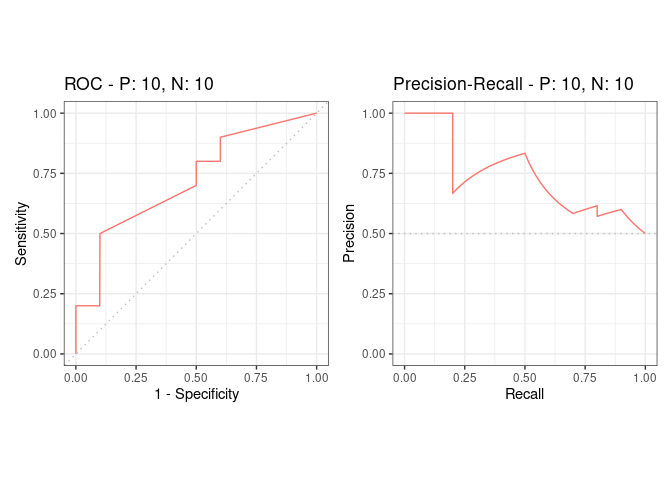
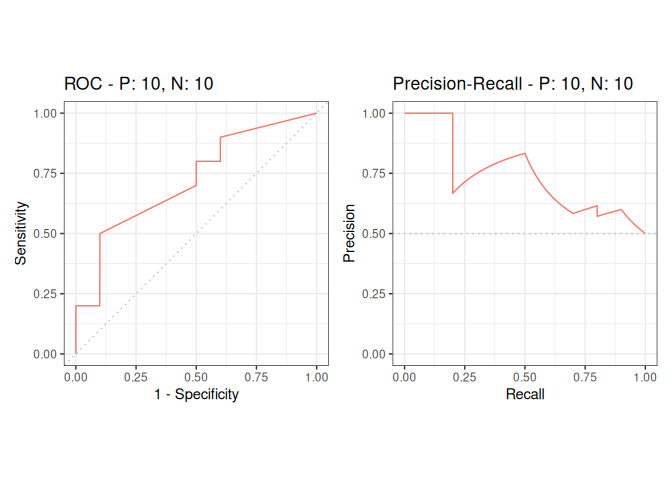
Bring the docs, the notes and the release files up to 0.16.0
README.md is regenerated from README.Rmd rather than hand-edited, which is
what the development note says to do and which I had not been doing through
phases 3 to 6 - the two had drifted in formatting, and the function table
still said "eight functions" for a package that now exports ten. The README
figure is re-rendered with it, and gained the alt text pkgdown was asking
for; the site now builds with no reported problems.

CLAUDE.md's public API line was four functions out of date. The architecture
note gains two sections for the things a reader now has to know before
touching this code:

- **The measure table.** `.basic_metric_table()` is the single list, with
  both naming schemes in it. Two bugs in two consecutive releases came from
  a lookup keyed on one scheme and missing the other - the 0.15.0 panel
  titles, and `.is_signed_metric()` drawing informedness and markedness on
  the wrong axis - so the note says to prefer the table over a fresh list of
  names.
- **The joinable-pair registry.** Why `metric_curve()` does not calculate a
  registered pair itself, and what adding a row means.

The development note gains the benchmark and ROCR-parity section, including
the two things that cost time this cycle: a `--compare` run is a screen and
not a verdict on a loaded machine, and the committed baseline has to be
regenerated whenever a change alters what the package computes. It also now
says that `lintr::lint_package()` wants the package installed first and
[…]

diff --git a/README.md b/README.md
@@ -65,13 +65,14 @@ evaluation measures.
 - F-score, and the F-beta score it generalizes
 - Balanced accuracy
 - Negative predictive value (NPV)
-- Informedness (Youden's J) and markedness
-- Cohen's kappa
+- Informedness (Youden’s J) and markedness
+- Cohen’s kappa
 - Brier score, RMSE and log loss, for scores that are probabilities
 - False positive rate, false negative rate, false discovery rate, false
-  omission rate, rate of positive predictions, rate of negative predictions,
-  lift, odds ratio, mutual information, chi-square, weighted
-  misclassification cost and SAR, on request through `evalmod(metrics = )`
+  omission rate, rate of positive predictions, rate of negative
+  predictions, lift, odds ratio, mutual information, chi-square,
+  weighted misclassification cost and SAR, on request through
+  `evalmod(metrics = )`
 - Precision-recall break-even point
 
 ### 4. Confidence interval band
@@ -89,9 +90,9 @@ ranges.
 ### 6. Multiclass evaluation
 
 `precrec` evaluates a dataset with more than two classes by one-vs-rest
-decomposition. Each class becomes its own binary problem, so the accurate
-precision-recall calculations apply to it unchanged, and `auc` reports the
-per-class scores together with their macro-average.
+decomposition. Each class becomes its own binary problem, so the
+accurate precision-recall calculations apply to it unchanged, and `auc`
+reports the per-class scores together with their macro-average.
 
 ### 7. Supporting functions
 
@@ -126,37 +127,38 @@ evaluation tools.
 
 ## Functions
 
-The `precrec` package provides the following eight functions.
+The `precrec` package provides the following ten functions.
 
-| Function | Description |
-|:---|:---|
-| evalmod | Main function to calculate evaluation measures |
-| mmdata | Reformat input data for performance evaluation calculation |
-| join_scores | Join scores of multiple models into a list |
-| join_labels | Join observed labels of multiple test datasets into a list |
-| create_sim_samples | Create random samples for simulations |
-| format_nfold | Create n-fold cross validation dataset from data frame |
-| prob_metrics | Calculate the Brier score, the RMSE and the log loss |
-| prob_metrics_ci | Calculate CIs of the Brier score, the RMSE and the log loss |
-| metric_curve | Draw one evaluation measure against another |
-| prbe | Find the precision-recall break-even point |
+| Function           | Description                                                 |
+|:-------------------|:------------------------------------------------------------|
+| evalmod            | Main function to calculate evaluation measures              |
+| mmdata             | Reformat input data for performance evaluation calculation  |
+| join_scores        | Join scores of multiple models into a list                  |
+| join_labels        | Join observed labels of multiple test datasets into a list  |
+| create_sim_samples | Create random samples for simulations                       |
+| format_nfold       | Create n-fold cross validation dataset from data frame      |
+| prob_metrics       | Calculate the Brier score, the RMSE and the log loss        |
+| prob_metrics_ci    | Calculate CIs of the Brier score, the RMSE and the log loss |
+| metric_curve       | Draw one evaluation measure against another                 |
+| prbe               | Find the precision-recall break-even point                  |
 
-Moreover, the `precrec` package provides nine S3 generics for the S3
-object created by the `evalmod` function. **N.B.** The R language
-specifies S3 objects and S3 generic functions as part of the most basic
-object-oriented system in R.
+Moreover, the `precrec` package provides ten S3 generics for the S3
+objects created by the `evalmod` and `metric_curve` functions. **N.B.**
+The R language specifies S3 objects and S3 generic functions as part of
+the most basic object-oriented system in R.
 
-| S3 generic | Package | Description |
-|:---|:---|:---|
-| print | base | Print the calculation results and the summary of the test data |
-| as.data.frame | base | Convert a precrec object to a data frame |
-| plot | graphics | Plot performance evaluation measures |
-| autoplot | ggplot2 | Plot performance evaluation measures with ggplot2 |
-| fortify | ggplot2 | Prepare a data frame for ggplot2 |
-| auc | precrec | Make a data frame with AUC scores |
-| part | precrec | Calculate partial curves and partial AUC scores |
-| pauc | precrec | Make a data frame with pAUC scores |
-| auc_ci | precrec | Calculate confidence intervals of AUC scores |
+| S3 generic    | Package    | Description                                                    |
+|:--------------|:-----------|:---------------------------------------------------------------|
+| print         | base       | Print the calculation results and the summary of the test data |
+| as.data.frame | base       | Convert a precrec object to a data frame                       |
+| plot          | graphics   | Plot performance evaluation measures                           |
+| autoplot      | ggplot2    | Plot performance evaluation measures with ggplot2              |
+| fortify       | ggplot2    | Prepare a data frame for ggplot2                               |
+| auc           | precrec    | Make a data frame with AUC scores                              |
+| part          | precrec    | Calculate partial curves and partial AUC scores                |
+| pauc          | precrec    | Make a data frame with pAUC scores                             |
+| auc_ci        | precrec    | Calculate confidence intervals of AUC scores                   |
+| as.data.table | data.table | Convert a precrec object to a data.table                       |
 
 ## Examples
 
@@ -190,7 +192,13 @@ library(ggplot2)
 autoplot(sscurves)
 ```
 
-![](https://raw.githubusercontent.com/evalclass/precrec/main/README_files/figure-gfm/unnamed-chunk-2-1.png)
+<figure>
+<img
+src="https://raw.githubusercontent.com/evalclass/precrec/main/README_files/figure-gfm/unnamed-chunk-2-1.png"
+alt="ROC and precision-recall curves of the P10N10 test dataset, drawn side by side" />
+<figcaption aria-hidden="true">ROC and precision-recall curves of the
+P10N10 test dataset, drawn side by side</figcaption>
+</figure>
 
 ## Citation
 

diff --git a/.claude/notes/architecture.md b/.claude/notes/architecture.md
@@ -4,8 +4,8 @@
 
 | Prefix | Role |
 | --- | --- |
-| `main_` | `evalmod()` — the single user-facing entry point |
-| `mm1`–`mm4` | **m**ake **m**odel data: input joining, validation, reformatting |
+| `main_` | `evalmod()` and `metric_curve()` — the user-facing entry points |
+| `mm1`–`mm5` | **m**ake **m**odel data: input joining, validation, reformatting, one-vs-rest expansion |
 | `pl1`–`pl6` | **p**ipe**l**ine stages that turn reformatted data into results |
 | `g_` | S3 **g**enerics and their methods (`plot`, `autoplot`, `auc`, …) |
 | `etc_utils*` | shared helpers: arg validation, object validation, plot/df utils |
@@ -48,12 +48,21 @@ pl_main(mdat, mode=)     pl1_pipeline_main.R
 
 `part()` (`g_part.R`) post-processes a `*curves` object in place, adding
 partial AUCs and `xlim`/`ylim` attributes and flipping `attr(x, "partial")`.
+`prbe()` (`g_prbe.R`) reads the precision-recall break-even point off the
+already-interpolated PR curve of such an object.
+
+`metric_curve()` (`main_metric_curve.R`) is a second entry point that
+projects two basic measures against each other. It does not add a pipeline
+stage: it calls `evalmod()` and takes two columns. See **The joinable-pair
+registry** below, which is the load-bearing part.
 
 ### Modes
 
 - `"rocprc"` (default, alias `"prcroc"`) — ROC + precision-recall curves.
-- `"basic"` — per-rank basic measures: score, label, error, accuracy,
-  specificity, sensitivity, precision, MCC, F-score (`.get_metric_names()`).
+- `"basic"` — per-rank basic measures. `.get_metric_names("basic")` is the
+  fourteen an object holds by default; `.get_metric_names("basic_all")` is
+  every measure `.basic_metric_table()` knows, and `evalmod(metrics = )`
+  chooses between them per object. See **The measure table** below.
 - `"aucroc"` — ROC AUC only, the fast path. Note `mmdata(mode = "aucroc")`
   produces `sdat` rather than `fmdat`, and the other modes reject it.
 
@@ -71,8 +80,11 @@ datasets, `s` = single, `m` = multiple:
 | **single model** | `sscurves` / `sspoints` | `smcurves` / `smpoints` |
 | **multiple models** | `mscurves` / `mspoints` | `mmcurves` / `mmpoints` |
 
+`metric_curve()` adds a third kind on the same grid: `ssxycurves`,
+`smxycurves`, `msxycurves`, `mmxycurves`.
+
 `curves` objects also carry `curve_info` and `aucs`; `points` objects carry
-`beval_info`. This is why generics come in sets of eight (`g_plot.R`,
+`beval_info`; `xycurves` objects carry `xycurve_info`. This is why generics come in sets of eight (`g_plot.R`,
 `g_autoplot.R`, `g_fortify.R`, `g_dataframe.R`) — **adding behaviour usually
 means editing all eight methods, or better, the shared helper they delegate
 to in `etc_utils_plot.R` / `etc_utils_autoplot.R` / `etc_utils_dataframe.R` /
@@ -122,6 +134,53 @@ Conventions in this layer:
   or `std::rand` — reproducibility under `set.seed()` and CRAN policy.
 - Each C++ block is commented with the R file and R function that calls it;
   keep those headers accurate when moving code.
+
+## The measure table
+
+`.basic_metric_table()` in `etc_utils.R` is the single list of basic
+evaluation measures. One row per measure, with:
+
+| Column | Used by |
+| --- | --- |
+| `name` | everything the user names a measure by |
+| `short` | the class-item names of a `points` object, and the `Meas.` column `print` shows |
+| `desc` | the legend `print.beval_info()` writes |
+| `default` | whether an object holds it when `evalmod(metrics = )` is not given |
+| `range` | `"unit"`, `"signed"` or `"free"` — the y axis the measure needs |
+
+**Two bugs in two consecutive releases came from a lookup keyed on one of
+the two naming schemes and missing the other**: the 0.15.0 panel-title bug
+read a factor by its level code, and `.is_signed_metric()` listed the long
+names while the base-R plotting path holds the short ones, so informedness
+and markedness were drawn on the wrong axis. `.metric_range()` accepts both.
+Prefer the table over a fresh list of names.
+
+Fourteen measures are `default = TRUE`; the rest are the ROCR-parity
+measures, off unless asked for. They are derived in R in
+`.add_derived_measures()` (`pl4_calc_measures.R`) from columns the C++ layer
+already produced or from the confusion-matrix counts behind them — no C++
+change, and nothing computed for a measure nobody asked for. The length
+check in `.validate.pevals()` is what pins a derived column to the same rank
+grid as its siblings.
+
+`.basic_metric_aliases()` holds the other names a measure answers to, ROCR's
+identifiers included. `.pmatch_added_metric()` is tried **last** in
+`.pmatch_curvetype_basic()`, so a prefix that used to reach one of the
+original measures still does: `"f"` is the F-score, `"l"` is the label.
+
+## The joinable-pair registry
+
+`.joinable_pairs()` in `main_metric_curve.R` lists the ordered metric pairs
+that may be joined by a line. It exists because the basic-measure table
+holds raw per-cutoff points with no interpolation, so joining an arbitrary
+pair of them with straight lines is the error this package exists to
+prevent.
+
+A pair in the registry is **not calculated by `metric_curve()` at all** — it
+is handed to the curve pipeline, and the result is what that pipeline
+produced. One implementation, one answer. Everything else is drawn as
+points. Adding a row is how a new joinable pair is registered; the drawing
+code reads this table and nothing else.
 
 ## Curve accuracy notes
 

diff --git a/.claude/notes/development.md b/.claude/notes/development.md
@@ -15,7 +15,9 @@ pkgdown::build_site(run_dont_run = TRUE)   # local docs preview
 ```
 
 `lintr::lint_package()` needs precrec *installed* (it has compiled code), or
-`object_usage_linter` reports every package function as undefined. styler owns
+`object_usage_linter` reports every package function as undefined - hundreds
+of them, all false. `devtools::install()` first, then lint; the package is
+expected to report **zero** lints. styler owns
 formatting, so `indentation_linter` is switched off in `.lintr` where the two
 disagree.
 
@@ -75,6 +77,28 @@ Machine-independent assertions about plot structure also live in
 titles and axis labels. Prefer those for anything you can state directly;
 the snapshots are for catching what you did not think to assert.
 
+### Benchmarks and the ROCR parity script
+
+`bench/` holds development scripts, is `.Rbuildignore`d, and has its own
+README. Two things about it that have bitten:
+
+- **`bench/run_bench.R --compare` is a screen, not a verdict.** On a machine
+  that has been running `R CMD check` and benchmark sweeps back to back, two
+  runs of identical code against the same baseline can disagree by 2x. Check
+  what unchanged code says against the same baseline before believing a
+  number, and never compare a `--quick` run against a full baseline.
+- **Regenerate `bench/baseline/develop.json` whenever a change alters what
+  the package computes.** A stale baseline reports the documented cost of a
+  new measure as a regression, which looks exactly like a real one.
+
+`bench/run_rocr_parity.R` cross-checks the basic evaluation measures against
+ROCR, which is the reference implementation for the ones added in 0.16.0.
+**ROCR is deliberately not a dependency, not even in `Suggests`** - install
+it yourself and the script runs, or it exits quietly. Where the two packages
+disagree on purpose - `odds` and `chisq` are NA rather than infinite at the
+ends, `mi` is 0 rather than NaN there - the script asserts that the
+difference is *only* there.
+
 ### CRAN-sensitive tests
 
 Some tests are skipped on CRAN (`skip_on_cran()`) to keep check time and
@@ -109,7 +133,9 @@ before merging to `develop` instead.
    test environments listed are the ones actually used and that the R CMD
    check results match this run. The known-and-accepted NOTE is the >1Mb
    `libs` sub-directory (`precrec.so` is ~4 MB).
-5. `devtools::document()`, `devtools::check()`, `devtools::spell_check()`.
+5. `devtools::document()`, `devtools::check()`, `devtools::spell_check()`,
+   `devtools::install()` then `lintr::lint_package()`, and
+   `rmarkdown::render("README.Rmd")` if anything user-facing changed.
 6. `devtools::check_win_devel()` / `check_win_release()`, and
    `devtools::revdep_check()` for reverse dependencies.
 7. `release/<version>` branch, merge to `main` + `develop`, tag `v<version>`.
@@ -118,7 +144,7 @@ before merging to `develop` instead.
 ## Repo layout notes
 
 - `data/` — the shipped datasets (`P10N10`, `B500`, `B1000`, `IB500`,
-  `IB1000`, `M2N50F5`), regenerated by the scripts in `data-raw/`.
+  `IB1000`, `M2N50F5`, `C3N150`), regenerated by the scripts in `data-raw/`.
   Documented in `R/precrec.R`.
 - `inst/CITATION` — the Bioinformatics 2017 citation.
 - `scripts/html_update/` — helpers for the external classeval website, not

diff --git a/CLAUDE.md b/CLAUDE.md
@@ -4,9 +4,11 @@ R package (CRAN) for accurate ROC and precision-recall curve calculation and
 plotting for binary classifiers. Hot paths are C++ via Rcpp.
 
 - Version/deps: `DESCRIPTION` · Exports: `NAMESPACE` (roxygen2-generated)
-- Public API: `evalmod`, `mmdata`, `join_scores`, `join_labels`,
-  `create_sim_samples`, `format_nfold` + S3 generics `print`, `as.data.frame`,
-  `plot`, `autoplot`, `fortify`, `auc`, `part`, `pauc`, `auc_ci`
+- Public API: `evalmod`, `metric_curve`, `mmdata`, `join_scores`,
+  `join_labels`, `create_sim_samples`, `format_nfold`, `prob_metrics`,
+  `prob_metrics_ci`, `prbe` + S3 generics `print`, `as.data.frame`,
+  `as.data.table`, `plot`, `autoplot`, `fortify`, `auc`, `part`, `pauc`,
+  `auc_ci`
 
 ## Extra docs
 

diff --git a/cran-comments.md b/cran-comments.md
@@ -7,6 +7,7 @@ prepared but not submitted, so this release carries both sets of changes.
 - Add the evaluation measures `ROCR` provides, opt-in through
   `evalmod(metrics = )`, plus confusion-matrix measures, F-beta, and
   probability-based metrics
+- Add one new dependency, `checkmate`, for the argument checks
 - Add `metric_curve()`, which draws one evaluation measure against another
 - Add `prbe()`, the precision-recall break-even point
 - Handle single-class datasets with a warning instead of an error

diff --git a/NEWS.md b/NEWS.md
@@ -70,6 +70,8 @@
   Brier score, so each model and dataset now takes up three rows rather than
   two.
 
+* Declare `stats` in `Imports`. It was used but not listed.
+
 * Fix the y axis of `plot()` for informedness and markedness. Both run from
   -1 to 1, and both were drawn on a 0 to 1 axis, which cut off the negative
   half of the curve. `autoplot()` was never affected. The axis range of a
